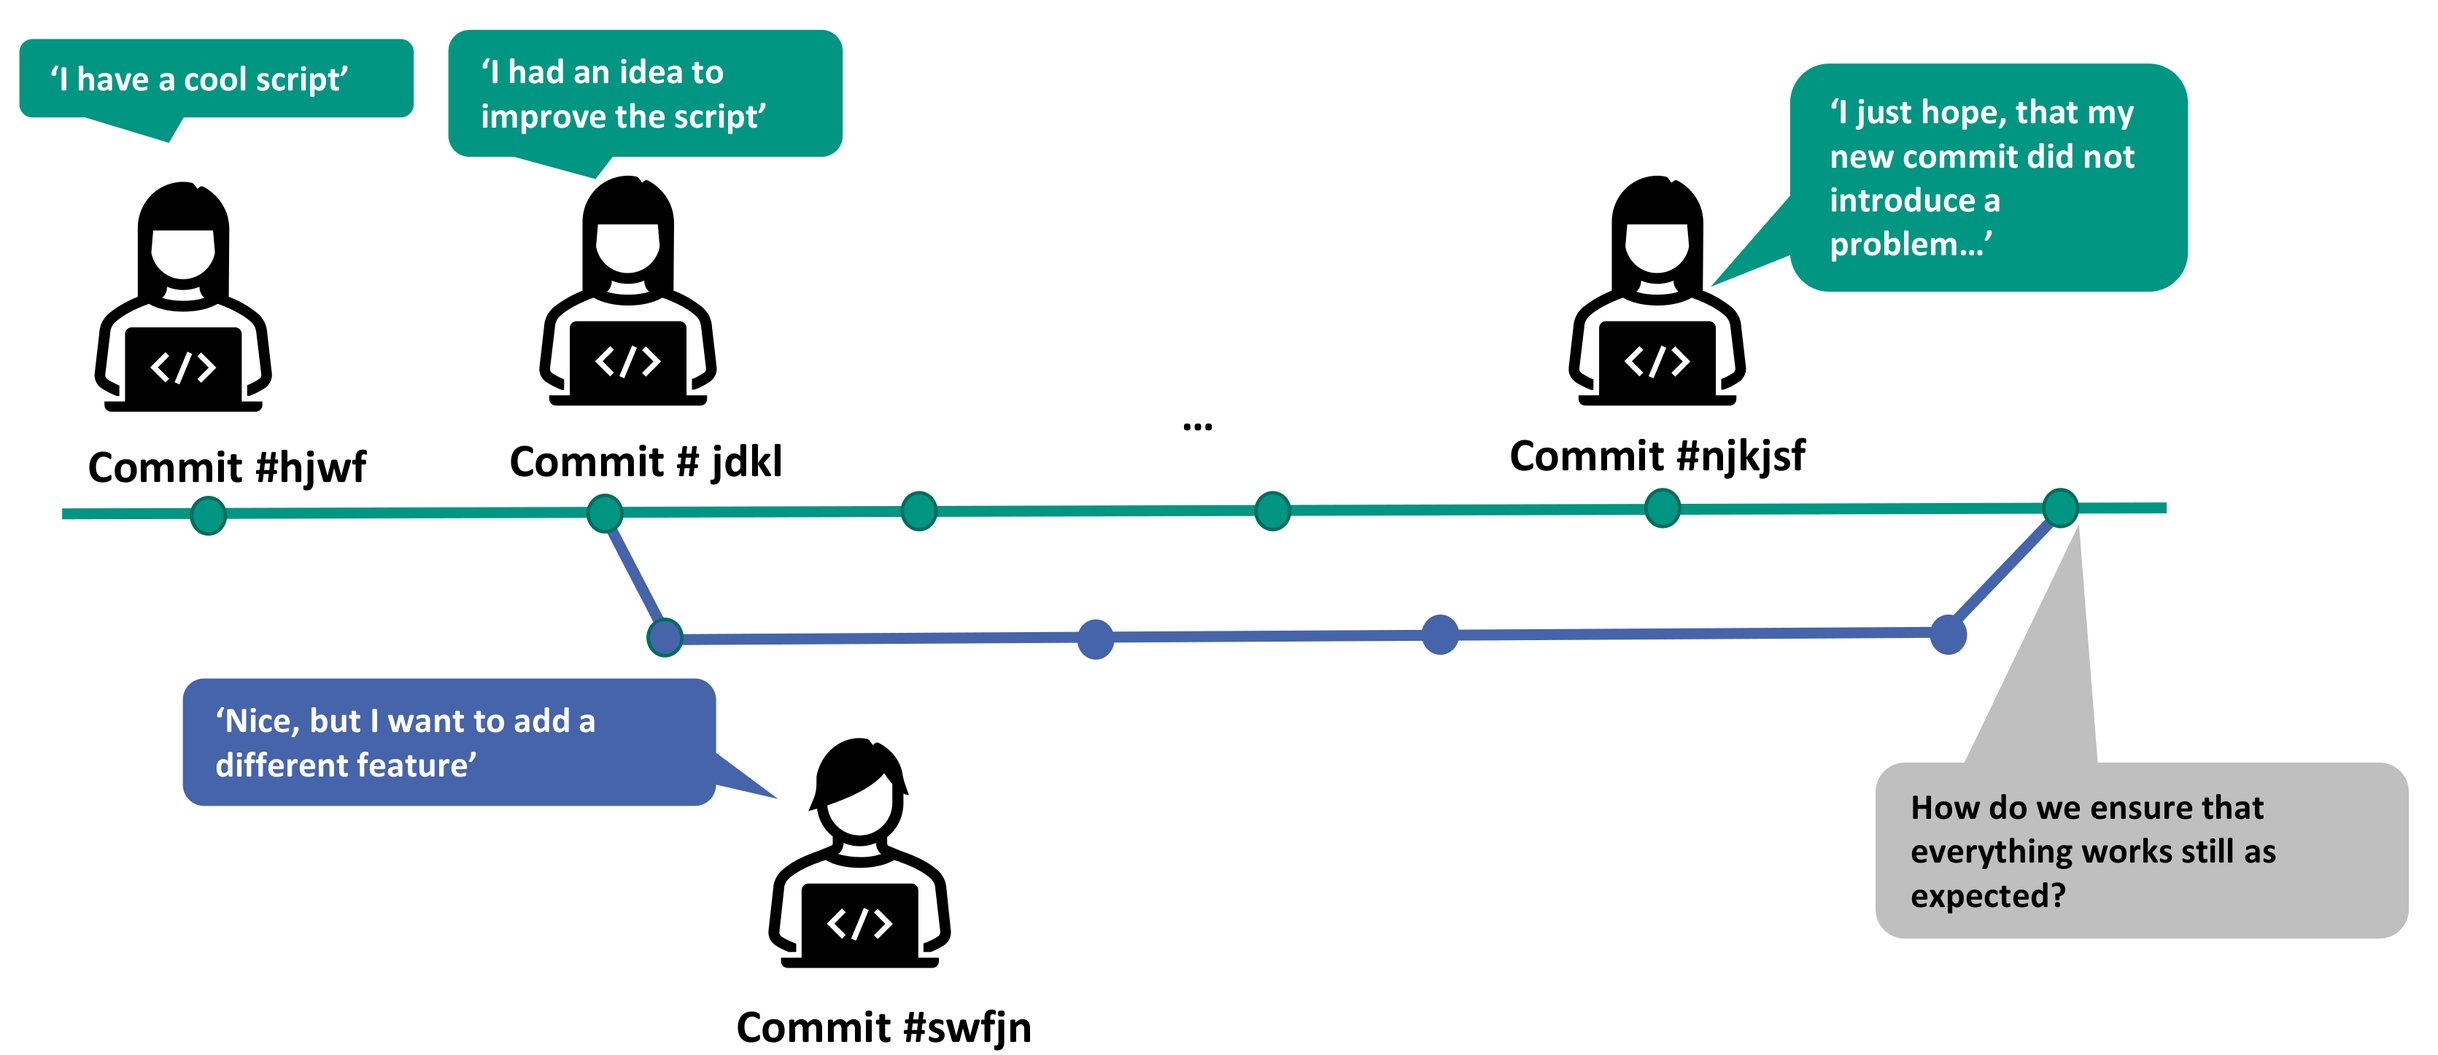
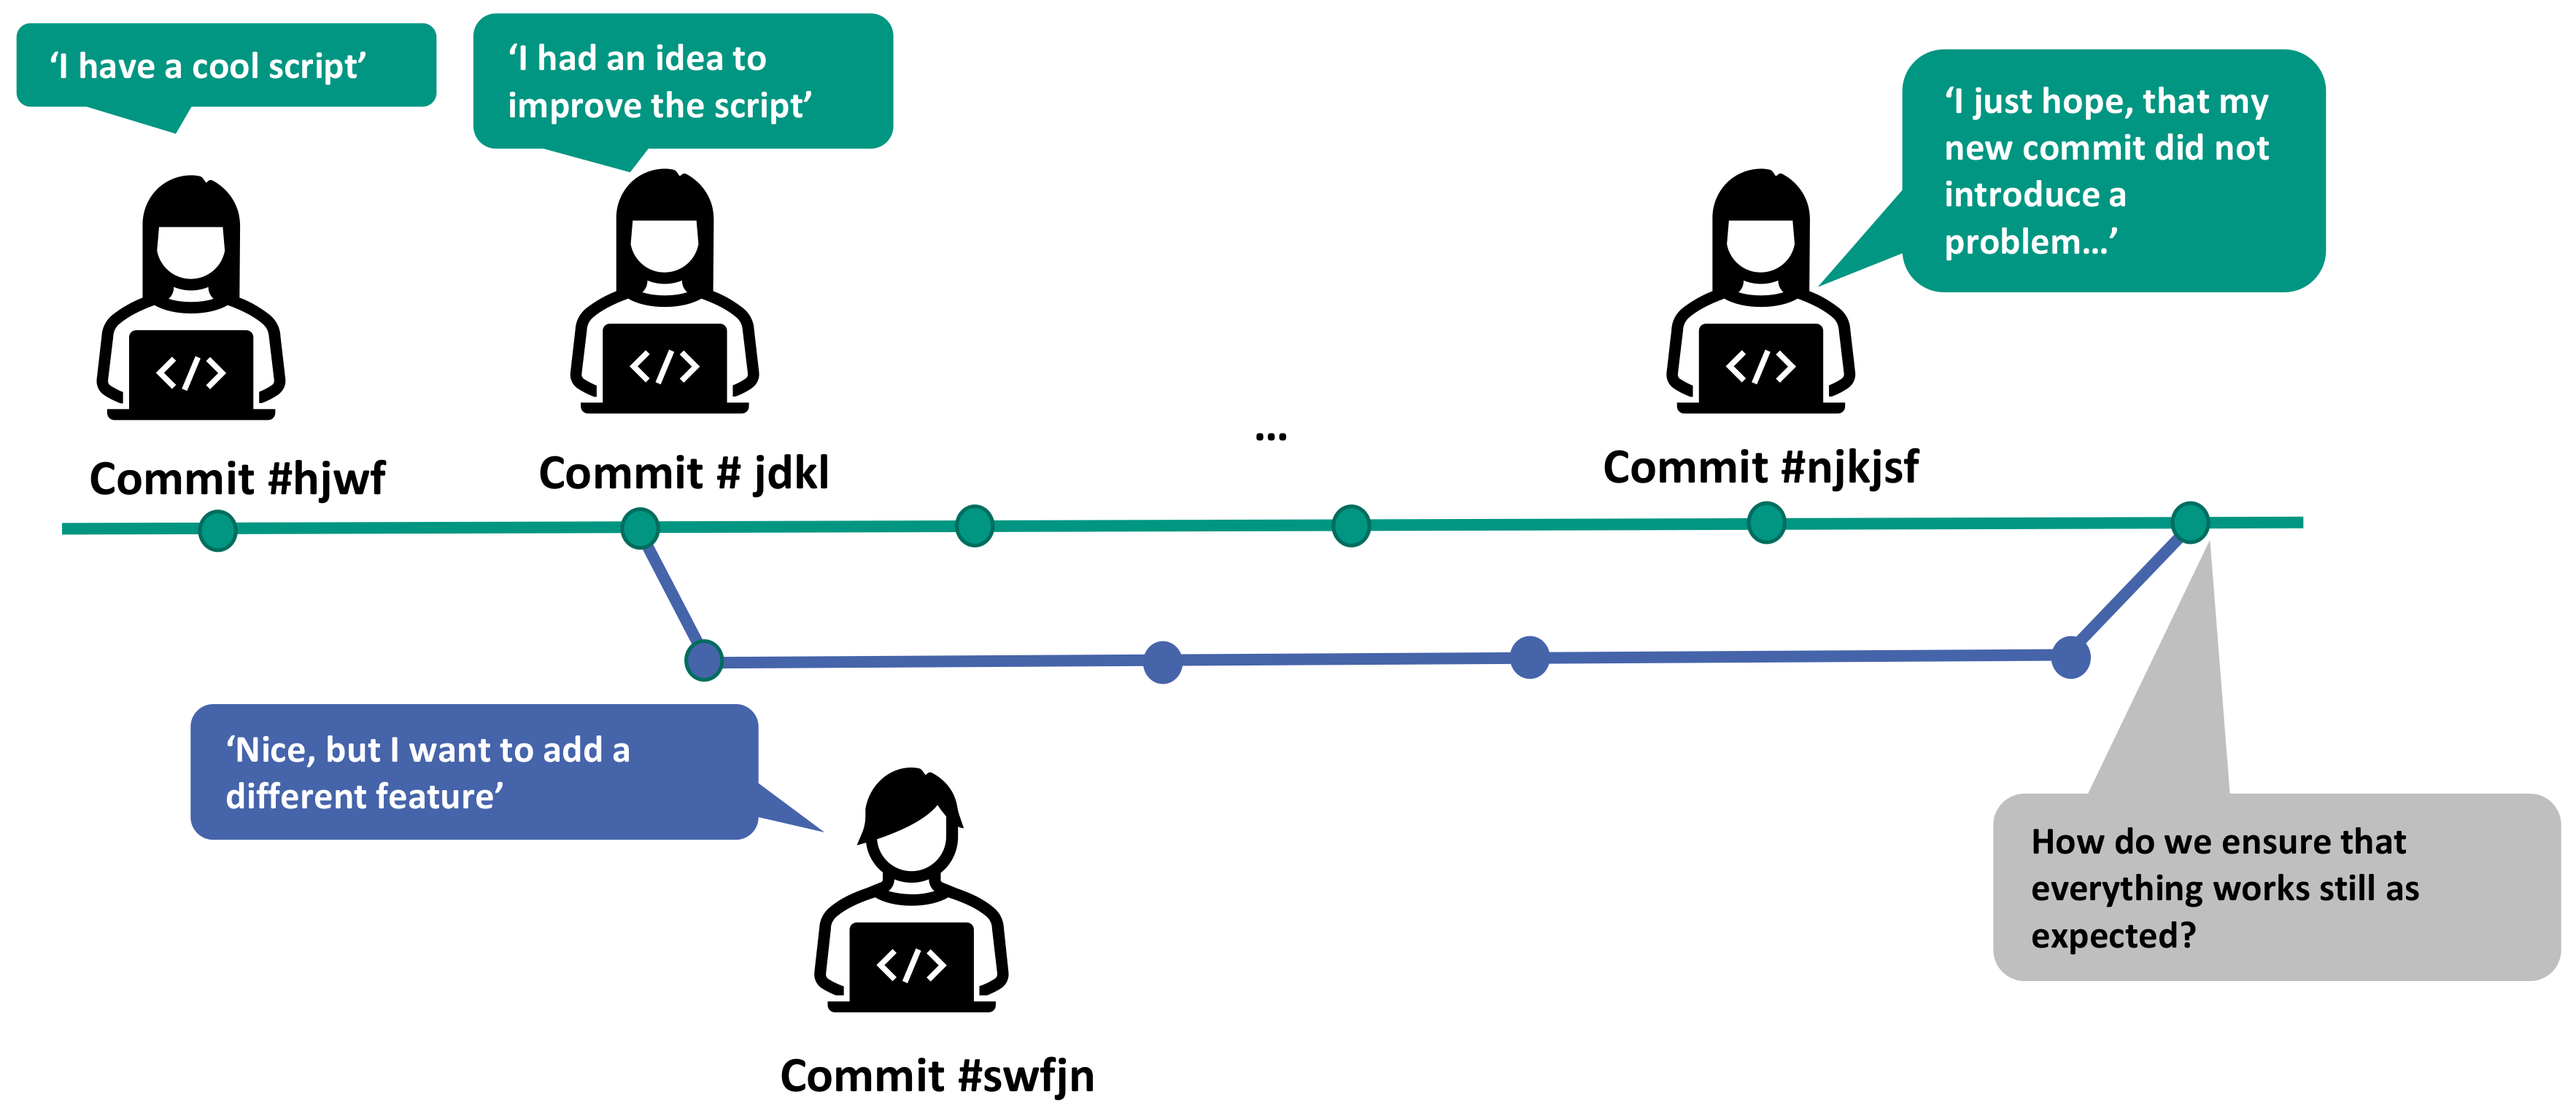
Add motivation stepwise

Changed region(s): [[0.0, 0.0, 0.9025, 0.9019], [0.7469, 0.7153, 0.9958, 0.9019], [0.3112, 0.9641, 0.4357, 0.9952]]

diff --git a/slides.md b/slides.md
@@ -43,6 +43,10 @@ $\quad\quad\quad\quad$  ![][fig_hackmd]
 
 [fig_hackmd]: images/hackmd.png { width=8cm }
 
+# Motivation
+
+![Avoid breaking things (© Nils Meyer)][fig_motivation_changes_nm_partly]
+
 
 # Motivation
 
@@ -765,6 +769,7 @@ $\quad\quad\quad\quad$
 
 [fig_Thank_You]: latexRessources/thank_you_slide.png
 [fig_motivation_changes_nm]: images/motivation_changes_nm.png { width=14cm }
+[fig_motivation_changes_nm_partly]: images/motivation_changes_nm_partly.png { width=14cm }
 [fig_pytest_logo]: images/pytest.png { width=4cm }
 [fig_github_login]: images/github_login.png { width=8cm }
 [fig_new_repo]: images/new_repo.png { width=8cm }
